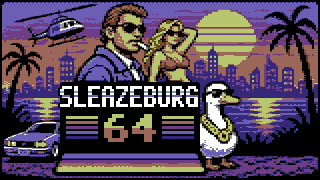
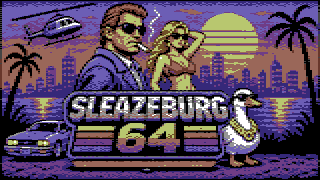
The title picture from the owner's improved artwork
The owner's improved Sleazeburg 64 sunset artwork, with its own logo,
replaces the first conversion. tools/title-picture.py now leaves out the
artwork's Commodore logo, carrying the stripe bars either side across
the gap, and makes the rest C64-like as before (320 x 180, the 16
colours in double-wide pixels).

Claude-Session: https://claude.ai/code/session_013DgN9PznqirUnXJkQTGnFe

diff --git a/tools/title-picture.py b/tools/title-picture.py
@@ -1,15 +1,15 @@
 #!/usr/bin/env python3
 # SPDX-License-Identifier: GPL-2.0-or-later
-"""Make assets/title-sunset.png from the owner's sunset artwork (not in the repository).
+"""Make assets/title-sunset.png from the owner's Sleazeburg 64 sunset artwork (not in the repository).
 
     python3 tools/title-picture.py ARTWORK.jpg assets/title-sunset.png
 
-The picture is 320 x 180, in the 16 C64 colours and double-wide pixels (assets/README.md), with "SLEAZEBURG 64" in
-the game's own letters (js/glyphs.js) where the artwork had its logo, and the artwork's Commodore logo left out.
-Needs Python 3 with Pillow, NumPy and OpenCV (pip install pillow numpy opencv-python-headless), and Node to read
-the letters. Run it from the repository's root.
+The artwork (1500 x 844) has the SLEAZEBURG 64 logo on a plate, with stripe bars under it and the Commodore logo
+in a gap between them. That logo is left out: the stripes either side are carried across the gap. Then the
+picture is made 320 x 180, in the 16 C64 colours and double-wide pixels (assets/README.md), with a light ordered
+dither. Needs Python 3 with Pillow, NumPy and OpenCV (pip install pillow numpy opencv-python-headless).
 """
-import json, subprocess, sys
+import sys
 import numpy as np
 import cv2
 from PIL import Image
@@ -18,84 +18,25 @@ SRC, OUT = sys.argv[1], sys.argv[2]
 PAL = ['#000000', '#ffffff', '#68372b', '#70a4b2', '#6f3d86', '#588d43', '#352879', '#b8c76f',
        '#6f4f25', '#433900', '#9a6759', '#444444', '#6c6c6c', '#9ad284', '#6c5eb5', '#959595']
 RGB = np.array([[int(h[i:i + 2], 16) for i in (1, 3, 5)] for h in PAL], np.float32)
-G = json.loads(subprocess.check_output(
-    ['node', '-e', "import('./js/glyphs.js').then((m) => console.log(JSON.stringify(m.GLYPHS)))"]))
 W, H = 320, 180
 
-src = Image.open(SRC).convert('RGB')
-img = np.array(src.resize((W, H), Image.LANCZOS)).astype(np.float32)
-fixed = np.full((H, W), -1, np.int16)  # palette index already decided (the logo), or -1
+art = np.array(Image.open(SRC).convert('RGB'))
+assert art.shape[:2] == (844, 1500), 'expected the 1500 x 844 artwork'
+# The Commodore logo, in the gap between the stripe bars under the plate: the stripes just left of the gap,
+# copied across it.
+GAP_X0, GAP_X1, GAP_Y0, GAP_Y1 = 642, 744, 718, 792
+w = GAP_X1 - GAP_X0
+art[GAP_Y0:GAP_Y1, GAP_X0:GAP_X1] = art[GAP_Y0:GAP_Y1, GAP_X0 - w:GAP_X1 - w]
 
-# 1. The stripes under the old logo: the Commodore logo between them is replaced by the stripes either side.
-for y in range(150, 178):
-    img[y, 112:131] = img[y, 100]
-    img[y, 131:152] = img[y, 168]
-
-# 2. A black plate over the old letters, its corners cut.
-x0, x1, y0, y1 = 60, 200, 82, 152
-fixed[y0:y1, x0:x1] = 0
-for (cx, cy) in ((x0, y0), (x1 - 1, y0), (x0, y1 - 1), (x1 - 1, y1 - 1)):
-    for dy in range(2):
-        for dx in range(2 - dy):
-            fixed[cy + (dy if cy == y0 else -dy), cx + (dx if cx == x0 else -dx)] = -1
-
-def glyph_mask(s, sx, sy, bold, gap):
-    """The letters of s as a mask: each font pixel sx wide and sy tall, thickened by `bold` pixels to the right."""
-    cell = (5 + bold + gap) * sx
-    m = np.zeros((7 * sy, cell * len(s)), bool)
-    for i, ch in enumerate(s):
-        for r, row in enumerate(G[ch]):
-            for b in range(5):
-                if row & (16 >> b):
-                    for t in range(bold + 1):
-                        x = i * cell + (b + t) * sx
-                        m[r * sy:(r + 1) * sy, x:x + sx] = True
-    return m[:, :cell * len(s) - gap * sx]
-
-def put(mask, left, top, fill):
-    """Paint the letters, `fill(row)` giving each row's colour, with a black outline round them."""
-    h, w = mask.shape
-    out = np.zeros((H, W), bool)
-    out[top:top + h, left:left + w] = mask
-    ring = cv2.dilate(out.astype(np.uint8), np.ones((3, 5), np.uint8)).astype(bool) & ~out
-    fixed[ring] = 0
-    for y in range(H):
-        xs = np.nonzero(out[y])[0]
-        if len(xs):
-            fixed[y, xs] = fill(y - top, h)
-
-def stripes_blue(r, h):
-    # White, with two blue stripes through the upper half, as the artwork's logo had.
-    return 3 if r in (h // 4, h // 4 + 1) else 14 if r in (h // 2 - 1, h // 2) else 1
-
-# Line 1: SLEAZEBURG, bold, each font pixel 2 wide and 3 tall.
-m1 = glyph_mask('SLEAZEBURG', 2, 3, 1, 1)
-put(m1, (x0 + x1) // 2 - m1.shape[1] // 2 & ~1, y0 + 4, stripes_blue)
-# Line 2: a big 64, each font pixel 4 wide and 4 tall, in the sunset's yellow over orange.
-m2 = glyph_mask('64', 4, 4, 1, 1)
-l2 = (x0 + x1) // 2 - m2.shape[1] // 2 & ~1
-t2 = y0 + 4 + 21 + 7
-put(m2, l2, t2, lambda r, h: 7 if r < h // 2 else 10)
-# Speed stripes either side of the 64: the sunset's colours, 3 rows each with a black row between.
-for i, col in enumerate((7, 10, 4, 14, 6)):
-    y = t2 + 2 + i * 5
-    for yy in (y, y + 1, y + 2):
-        fixed[yy, x0 + 6:l2 - 6] = col
-        fixed[yy, l2 + m2.shape[1] + 6:x1 - 6] = col
-
-# 3. Down to 160 x 180 (each pixel two wide), and to the C64 colours with a light ordered dither.
-half = img.reshape(H, W // 2, 2, 3).mean(axis=2)
+# To the C64's size, each pixel two wide, and to its colours, with a light ordered dither.
+small = np.array(Image.fromarray(art).resize((W, H), Image.LANCZOS)).astype(np.float32)
+half = small.reshape(H, W // 2, 2, 3).mean(axis=2)
 B = np.array([[0, 8, 2, 10], [12, 4, 14, 6], [3, 11, 1, 9], [15, 7, 13, 5]], np.float32) / 16 - 0.47
 lab = cv2.cvtColor((RGB[None] / 255).astype(np.float32), cv2.COLOR_RGB2Lab)[0]
 out = np.zeros((H, W // 2), np.int16)
-strength = 18
 for y in range(H):
     for x in range(W // 2):
-        f = fixed[y, 2 * x] if fixed[y, 2 * x] >= 0 else fixed[y, 2 * x + 1]
-        if f >= 0:
-            out[y, x] = f
-            continue
-        p = np.clip(half[y, x] + B[y % 4, x % 4] * strength, 0, 255)
+        p = np.clip(half[y, x] + B[y % 4, x % 4] * 18, 0, 255)
         pl = cv2.cvtColor((p[None, None] / 255).astype(np.float32), cv2.COLOR_RGB2Lab)[0, 0]
         out[y, x] = int(np.argmin(((lab - pl) ** 2 * [1.3, 1, 1]).sum(axis=1)))
 pic = RGB[np.repeat(out, 2, axis=1)].astype(np.uint8)

diff --git a/specs/design.md b/specs/design.md
@@ -684,9 +684,11 @@ cult. At 280 the time left as `m:ss`, white, flashing red under 15 seconds. With
 starting on the text each time it comes up (`TITLE_PAGES`). Fire starts the game from either.
 - **The sunset picture** (`assets/title-sunset.png`, 320 × 180, the 16 colours in double-wide pixels, as the end
   pictures): a sunset over the city's skyline and the canal, palms, a police helicopter, a man in sunglasses with
-  a cigarette, a woman in sunglasses, a car, and Big Honk in sunglasses and a gold chain. Across the middle,
-  "SLEAZEBURG" in the game's letters, bold, in white with cyan and light blue stripes, and under it a big "64",
-  yellow over light red, between speed stripes in the sunset's colours, on a black plate.
+  a cigarette, a woman in sunglasses, a car, and Big Honk in sunglasses and a gold chain. Across the middle, the
+  logo on a dark plate with a rounded purple rim: "SLEAZEBURG" in slanted letters, white shading to pink, and
+  under it a big "64", yellow shading to orange, between speed stripes in the sunset's colours, with a stripe bar
+  under it all. The owner's artwork, made C64-like by `tools/title-picture.py`, which leaves out the artwork's
+  Commodore logo and carries the stripes across where it was.
 - **Under it:** "PRESS FIRE TO COMMIT CRIMES", blinking, and the greetings scrolling.
 
 **The boot** (`drawBoot`, `BOOT`): the C64's start-up screen, then `LOAD"CRIME",8,1`, SEARCHING and LOADING.

diff --git a/assets/README.md b/assets/README.md
@@ -20,8 +20,9 @@ check the files match it. The rules below are for the end screens.
 The end screens add their own title, captions and "New game?" line around the picture, and the victory screen
 draws the cigar smoke over it, rising from about (252, 62).
 
-The sunset picture is the owner's artwork, made C64-like by a script, with "SLEAZEBURG 64" in the game's own
-letters in place of the artwork's logo. The title screen draws "PRESS FIRE" and the greetings under it.
+The sunset picture is the owner's artwork, with its SLEAZEBURG 64 logo, made C64-like by
+[`tools/title-picture.py`](../tools/title-picture.py), which also leaves out the artwork's Commodore logo. The
+title screen draws "PRESS FIRE" and the greetings under it.
 
 ## Rules for editing the pictures
 
